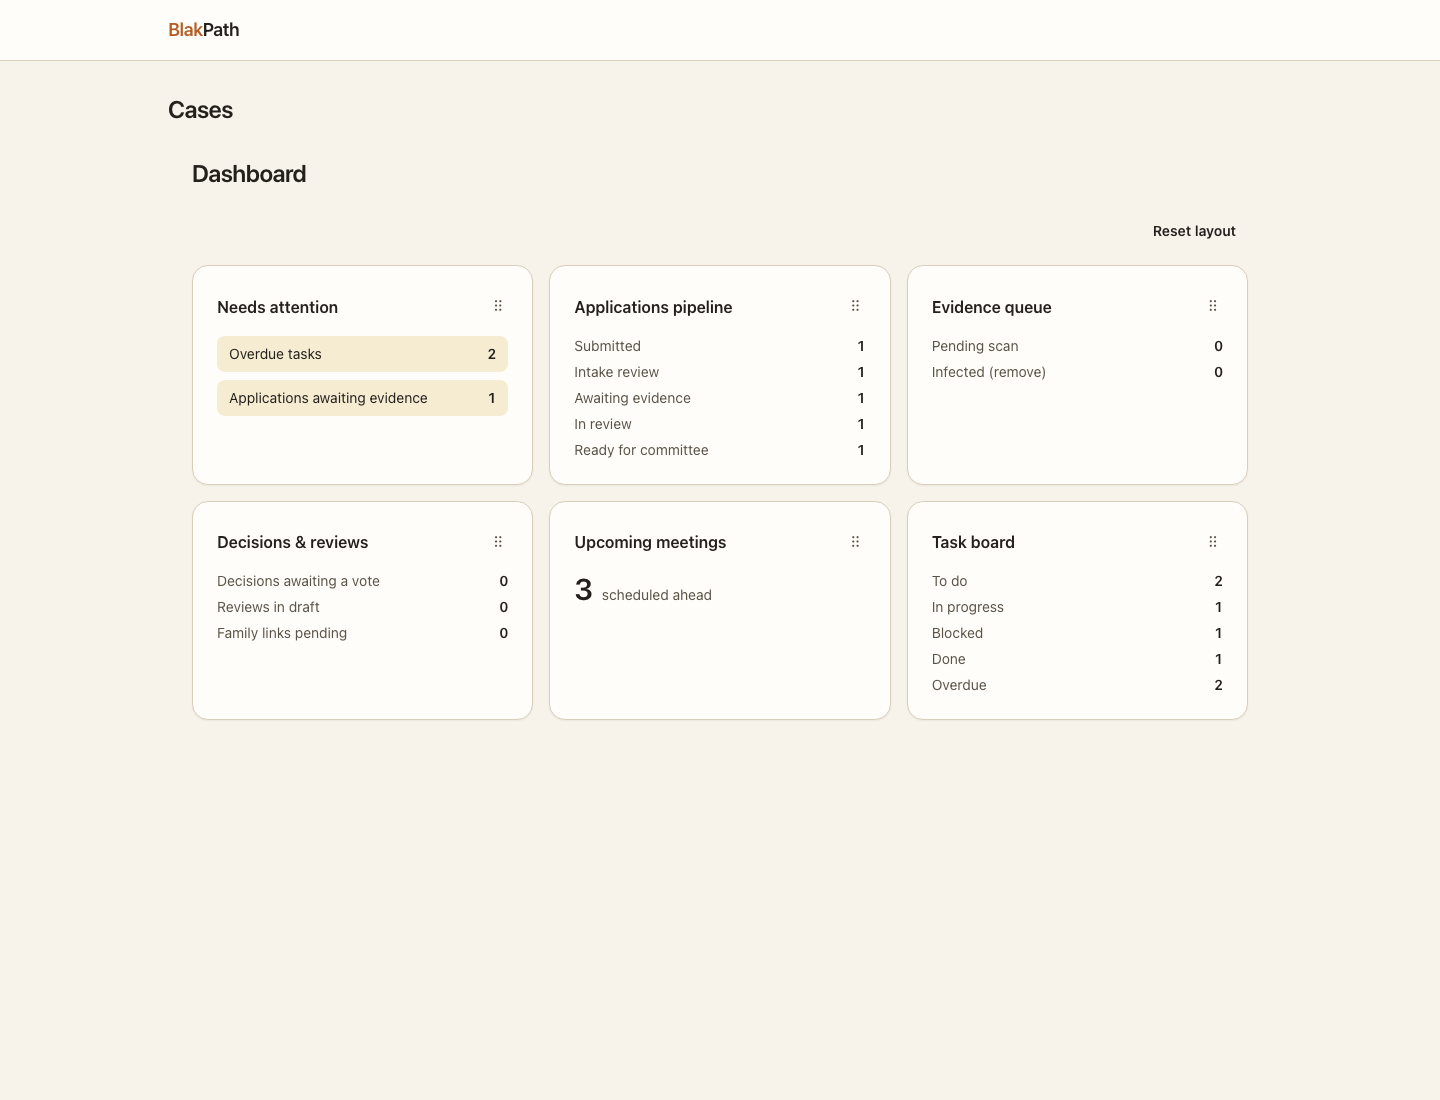
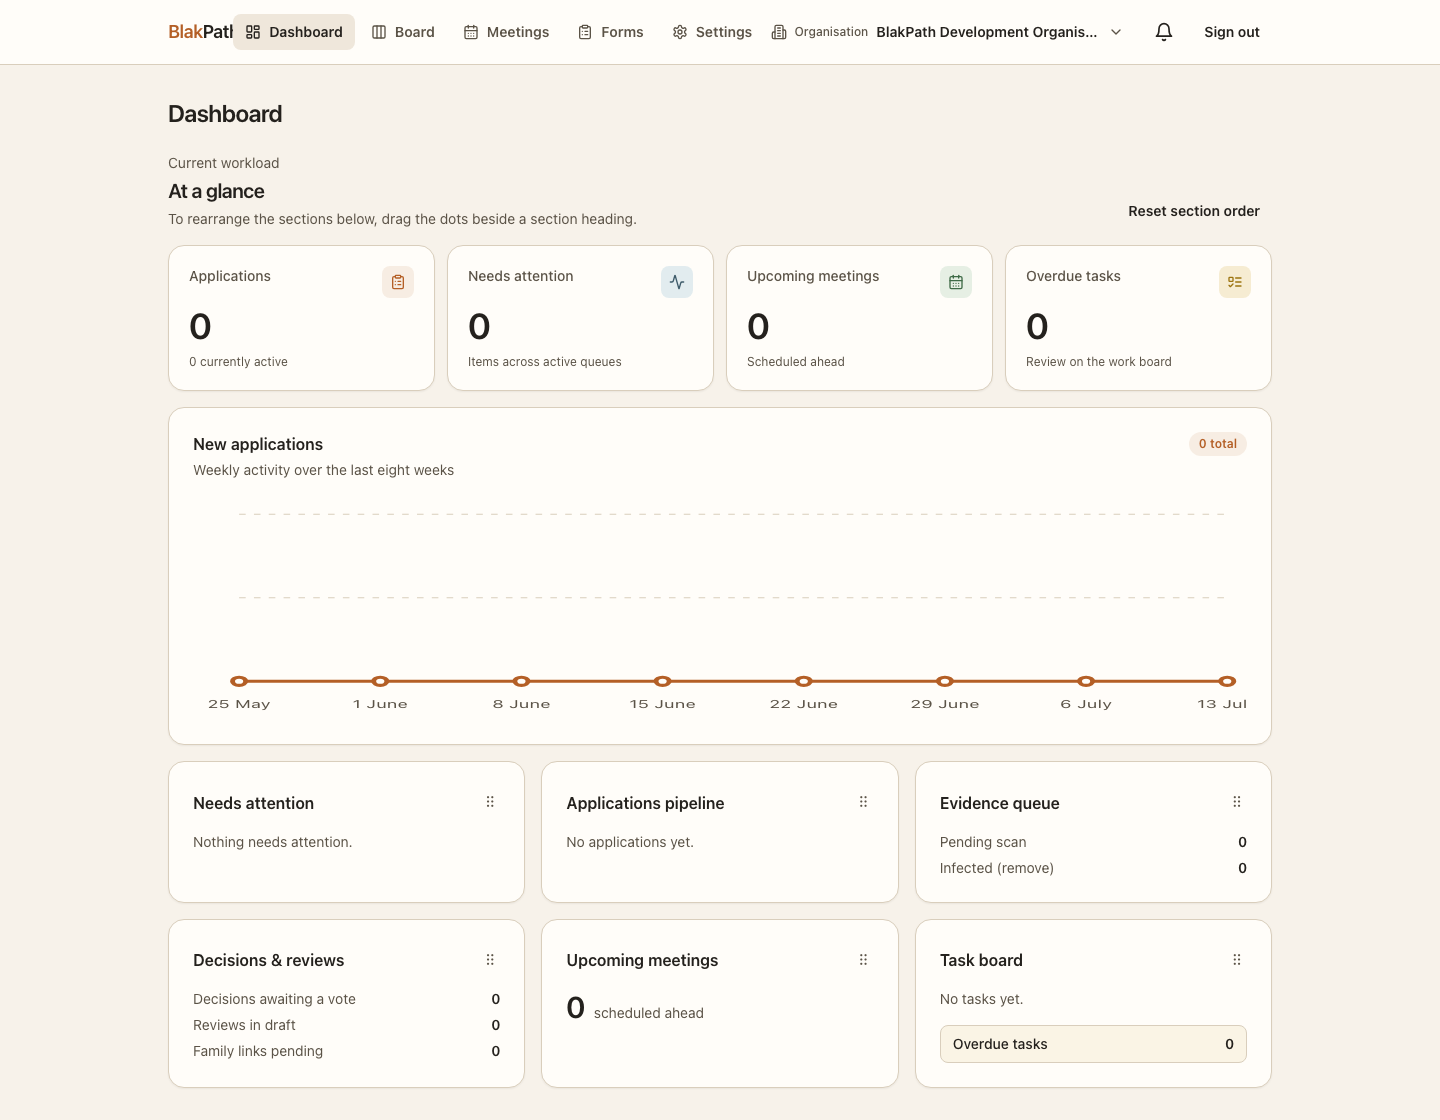
docs(readme): refresh M3 screenshot gallery

diff --git a/scripts/capture-readme-screenshots.ts b/scripts/capture-readme-screenshots.ts
@@ -55,7 +55,9 @@ function signSessionData(input: {
 async function setActiveOrganisation(page: Page, organisationId: string): Promise<void> {
   const cookies = await page.context().cookies();
   const sessionDataCookie = cookies.find(
-    (cookie) => cookie.name === '__Secure-blakpath.session_data',
+    (cookie) =>
+      cookie.name === '__Secure-blakpath.session_data' ||
+      cookie.name === 'blakpath.session_data',
   );
   if (!sessionDataCookie) throw new Error('session cache cookie is missing');
   const decoded = JSON.parse(

diff --git a/README.md b/README.md
@@ -13,10 +13,11 @@ strict tenant isolation and Australian data residency.
 
 All README images are in the gallery below, which is collapsed by default so
 the README stays easy to scan. The gallery is exhaustive: it contains every
-image currently stored in `docs/screenshots`.
+image currently stored in `docs/screenshots`, including the analytics dashboard
+with its workload indicators and activity charts.
 
 <details>
-<summary>Open all 8 screenshots</summary>
+<summary>Open all 8 screenshots, including the analytics dashboard</summary>
 
 ### Screenshot index
 